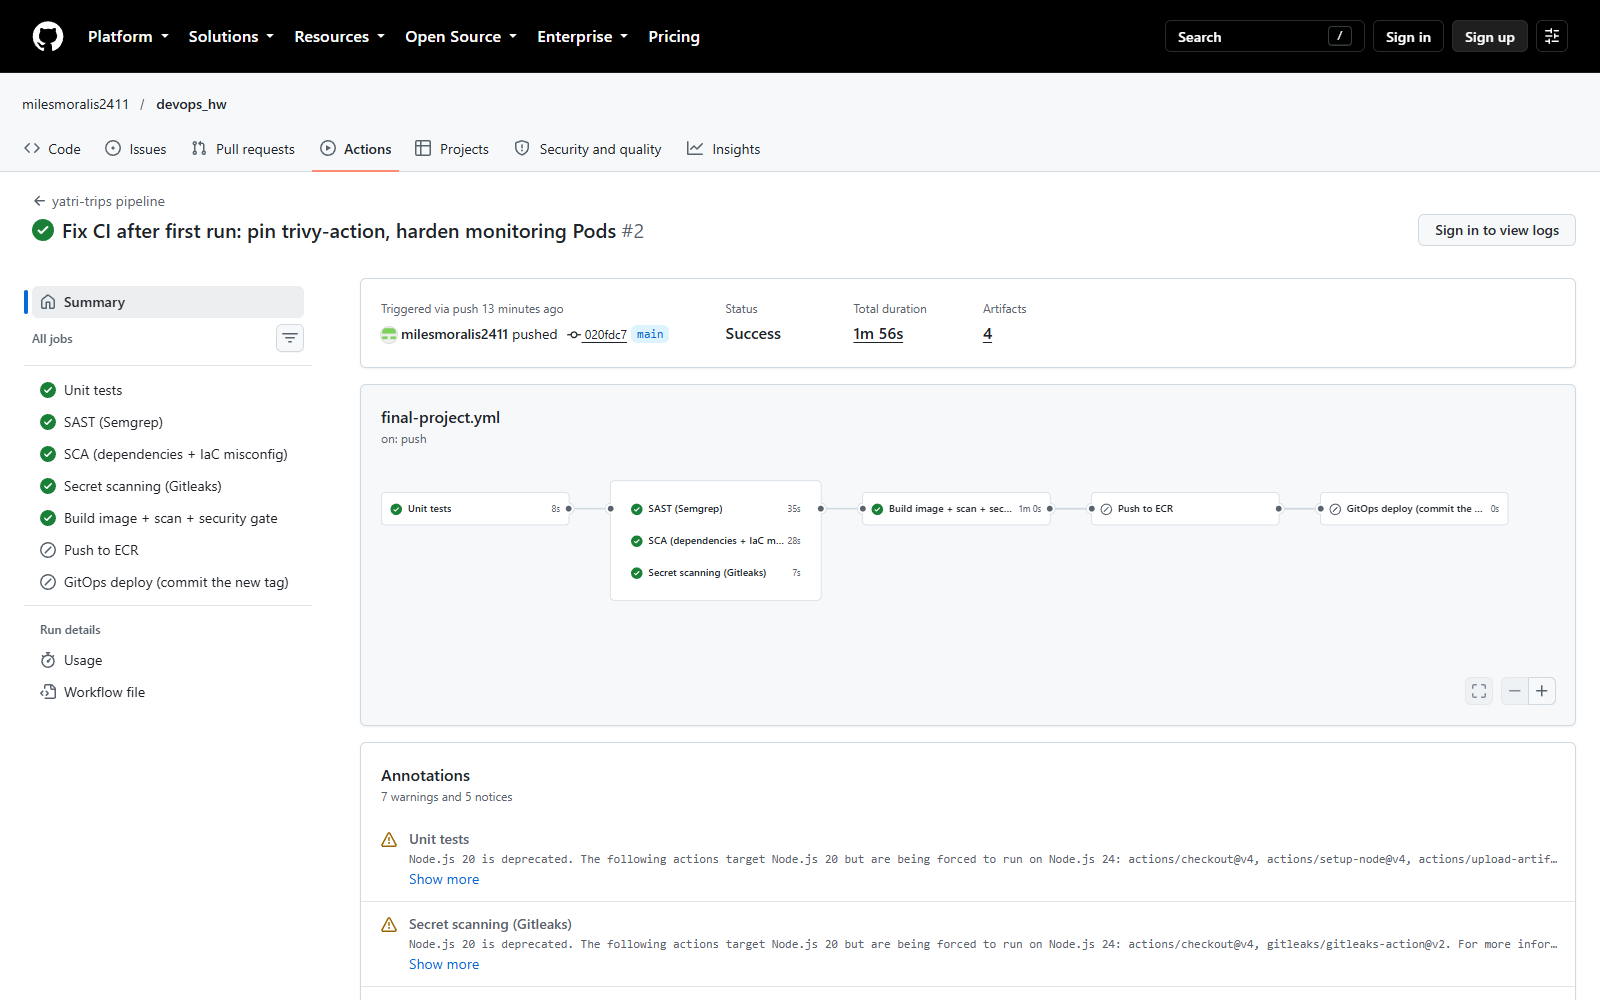
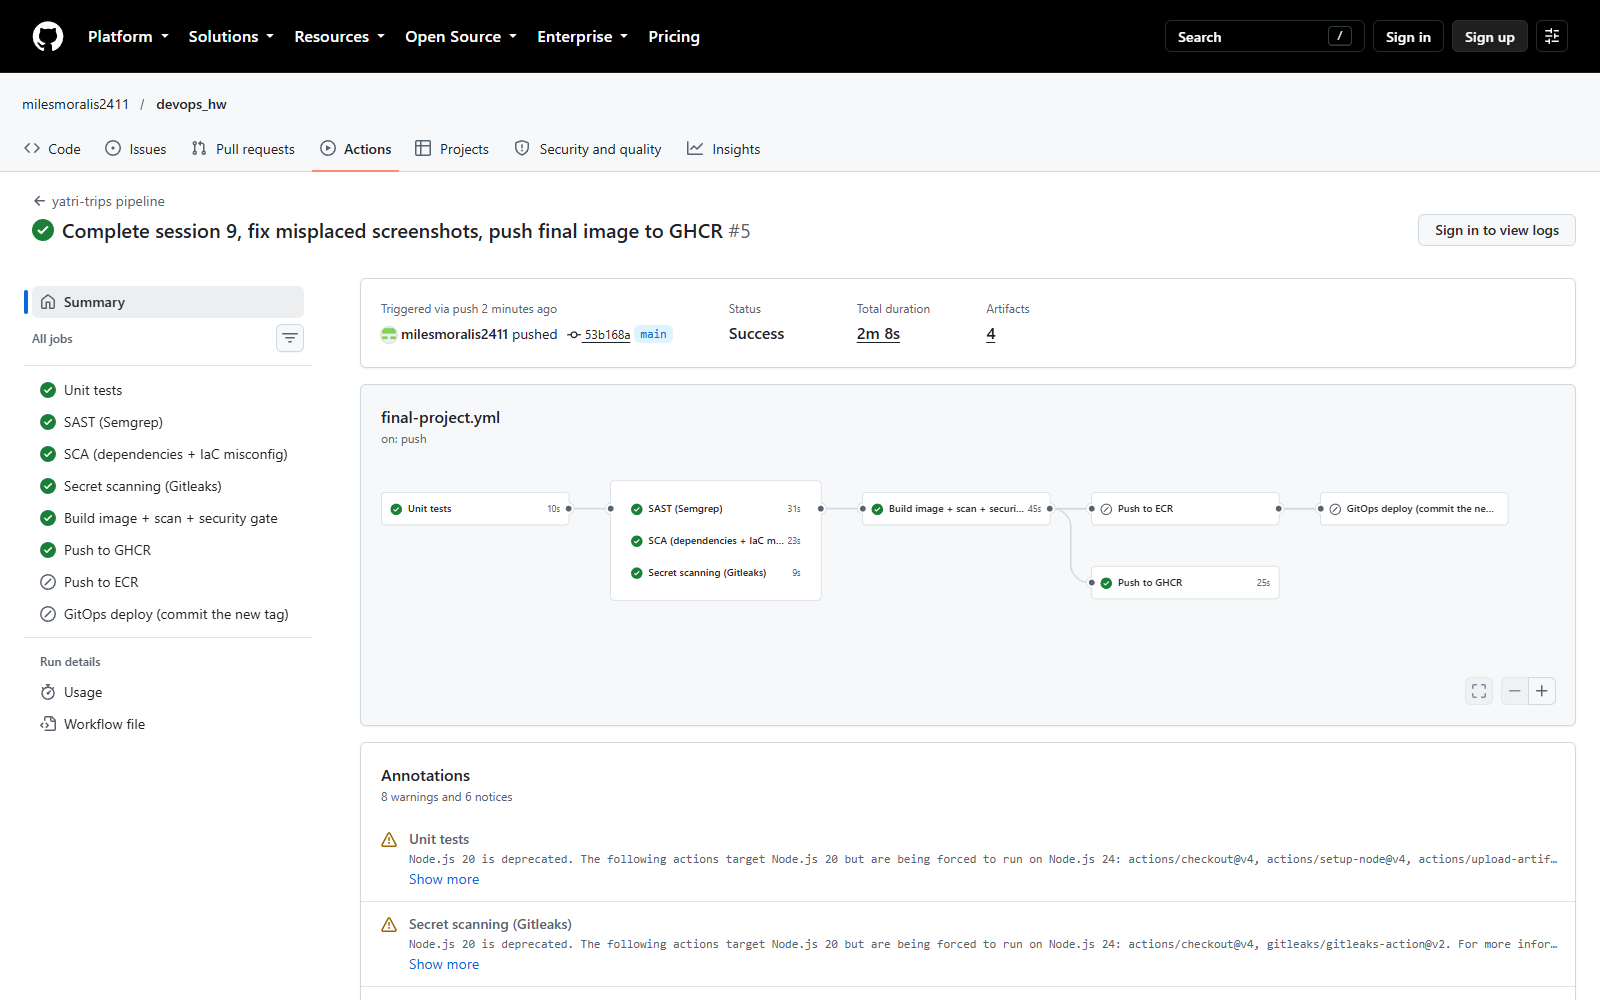
Final project: GitHub Actions screenshot showing the GHCR push

diff --git a/20-final-devops-project/README.md b/20-final-devops-project/README.md
@@ -529,9 +529,9 @@ post-incident alert, the game day, and the hardening commit.
 
 ![Gitea commit history](screenshots/gitea-platform-history_24bcs10326.png)
 
-**GitHub Actions** — the pipeline on the monorepo ([run #2](https://github.com/milesmoralis2411/devops_hw/actions/runs/37663251908)):
-test → SAST / SCA / secret scan → build + image scan + gate pass. *Push to
-ECR* and *GitOps deploy* are skipped until `AWS_CI_ROLE_ARN` is set
+**GitHub Actions** — the pipeline on the monorepo ([run #5](https://github.com/milesmoralis2411/devops_hw/actions/runs/37681550405)):
+test → SAST / SCA / secret scan → build + image scan + gate → **push to GHCR**, all
+green. *Push to ECR* and *GitOps deploy* are skipped until `AWS_CI_ROLE_ARN` is set
 ([section 9](#9-cicd-pipeline)).
 
 ![GitHub Actions pipeline](screenshots/github-actions-pipeline_24bcs10326.png)
